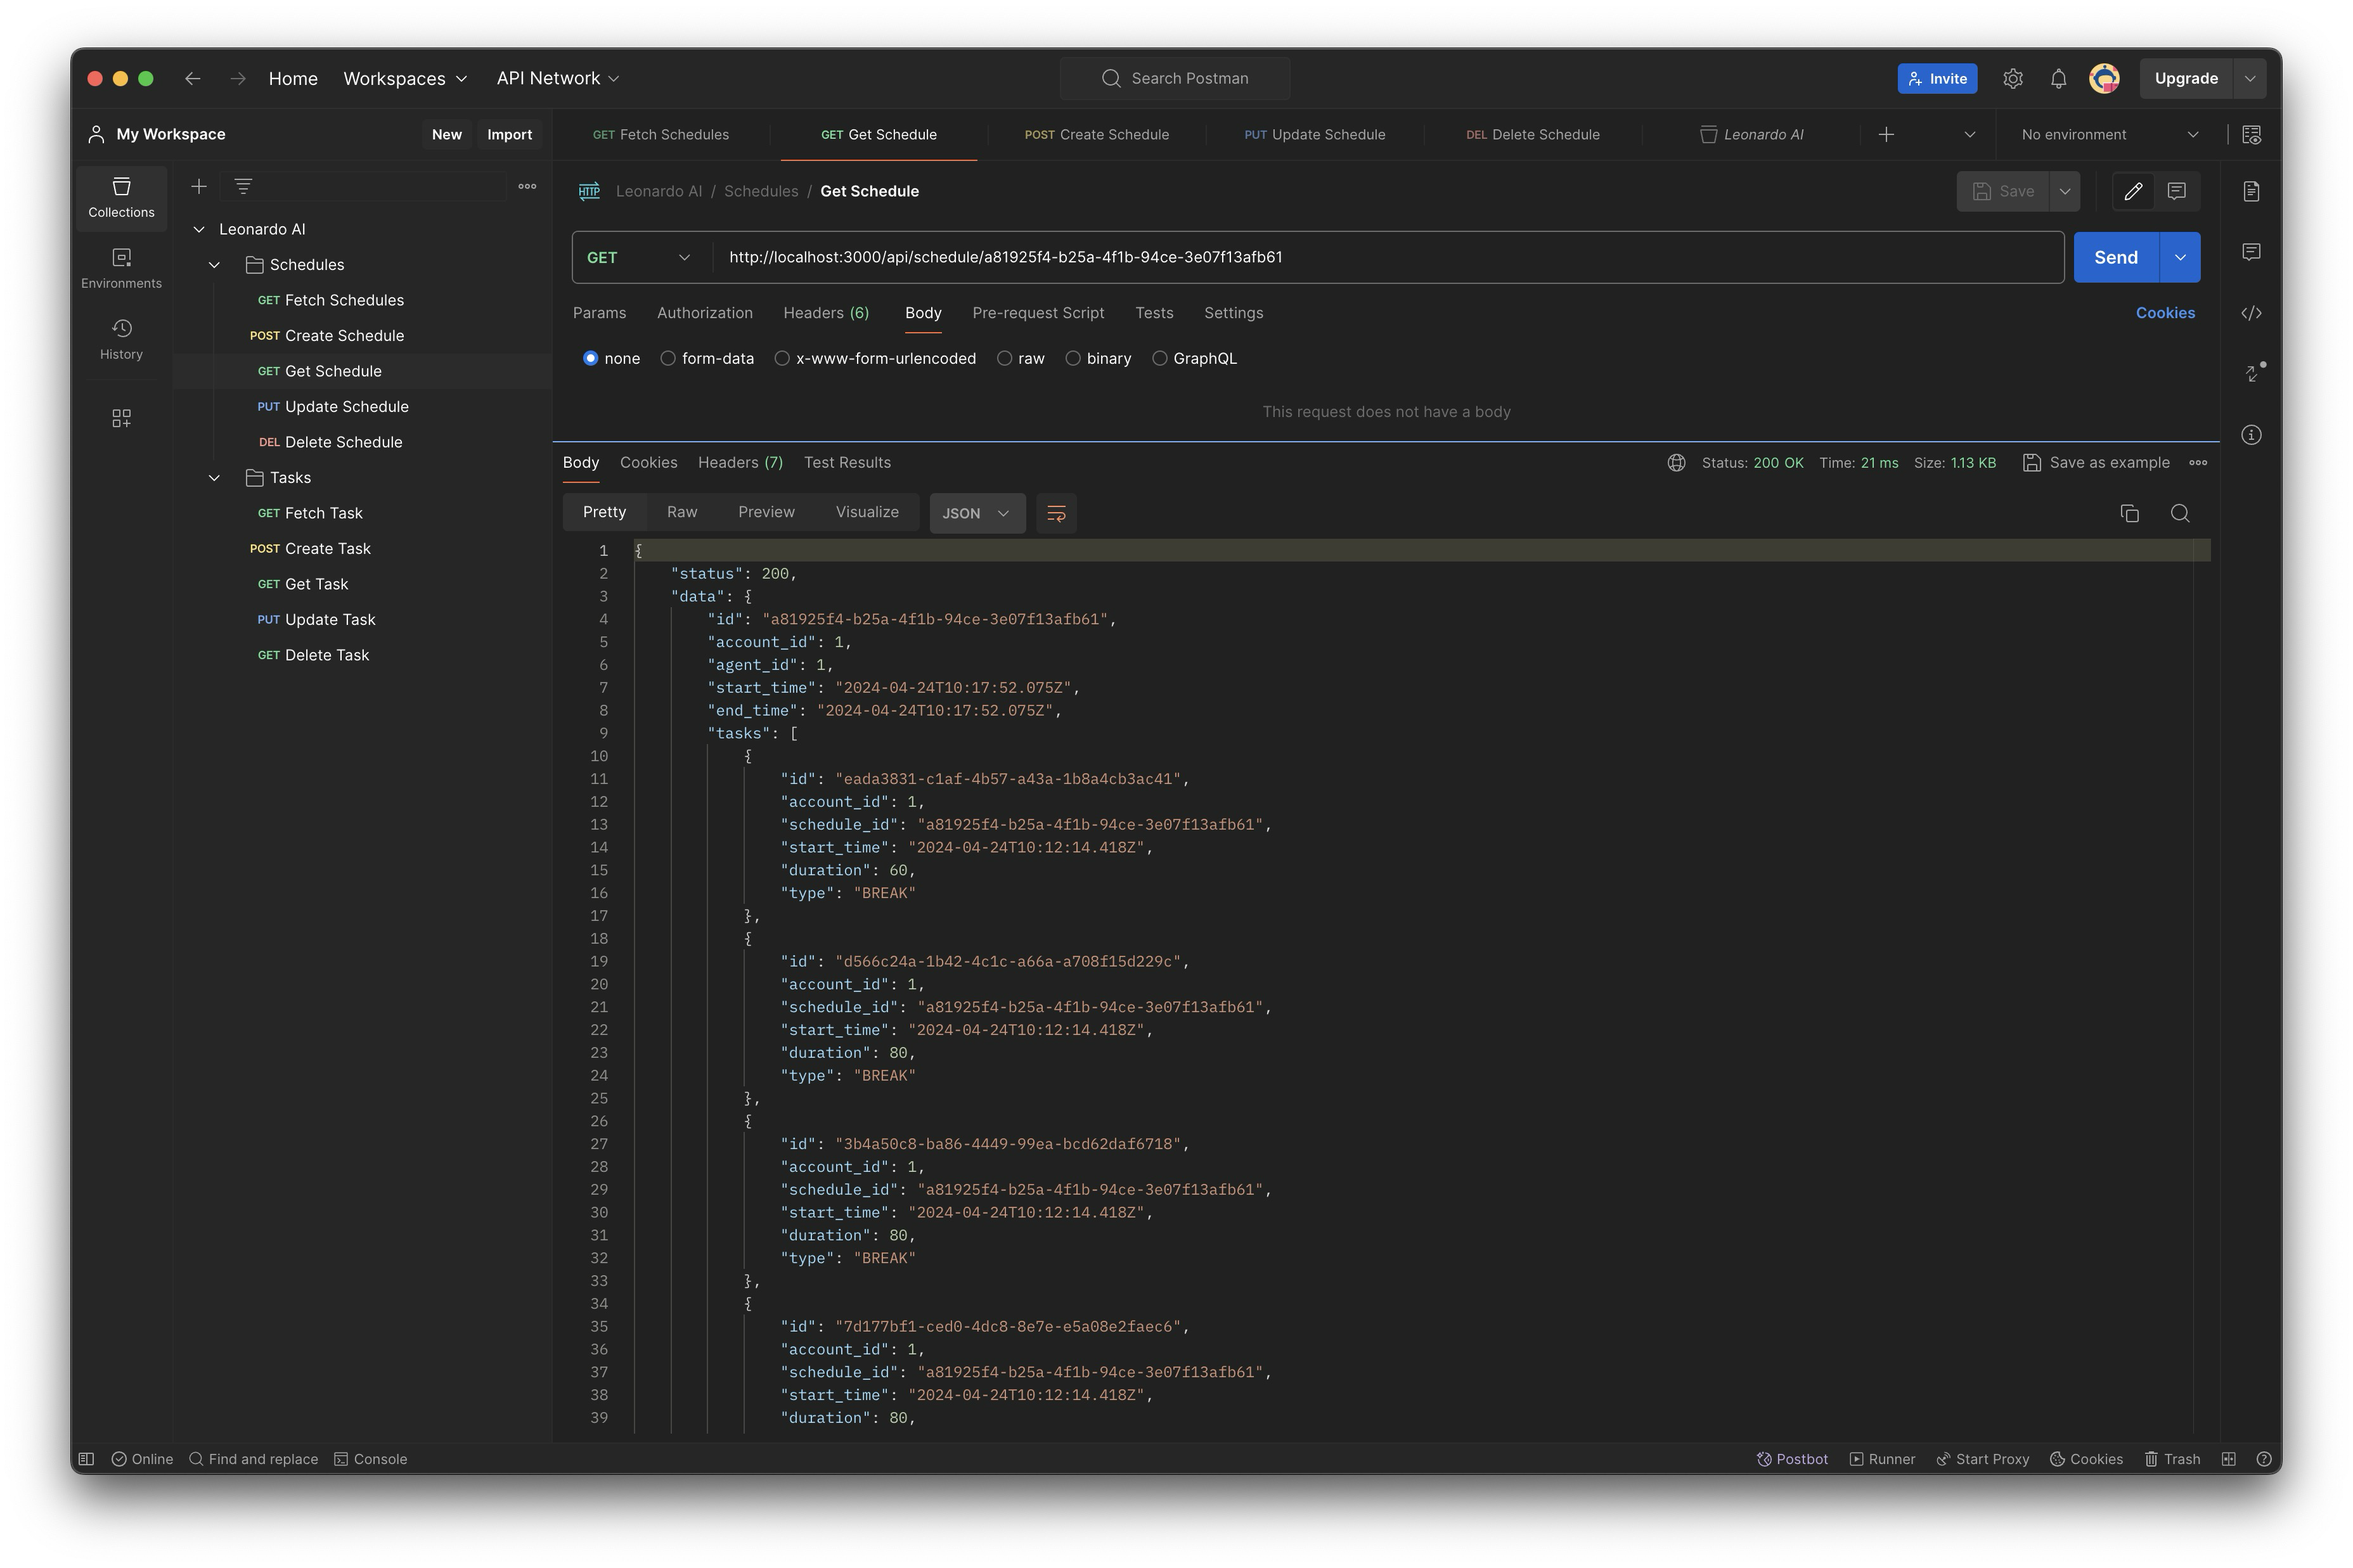
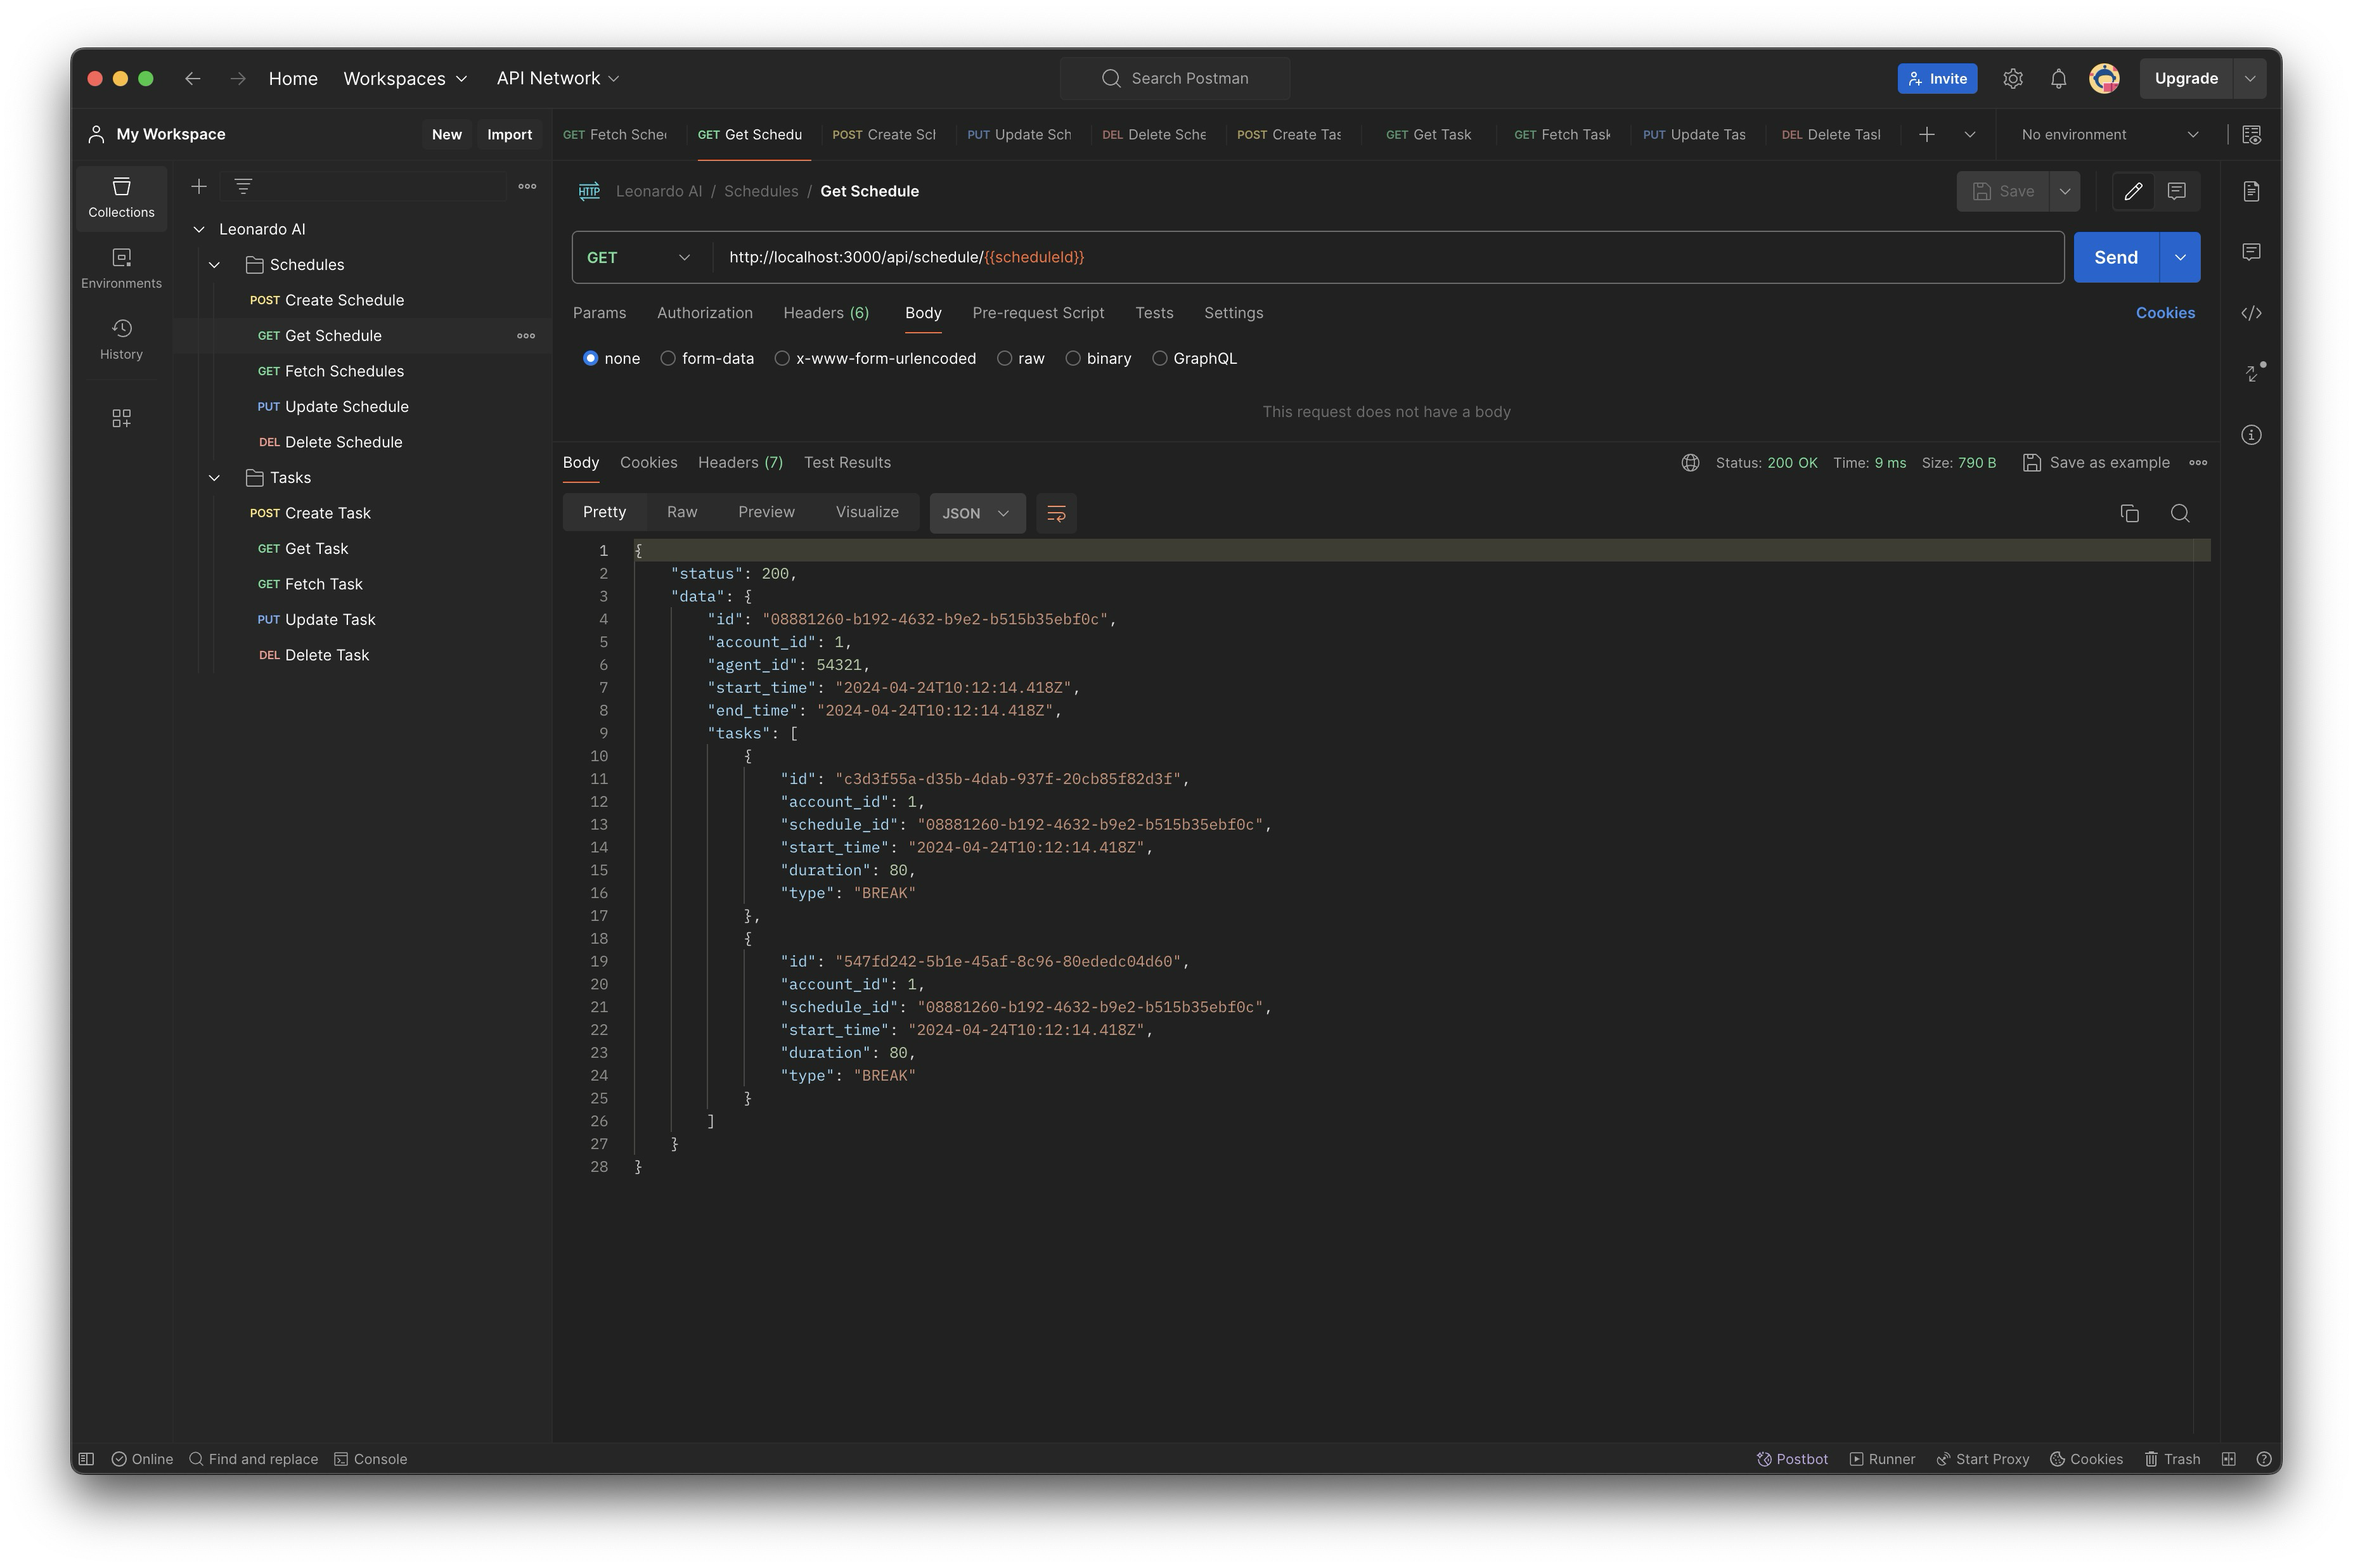
docs: update testing instructions

diff --git a/README.md b/README.md
@@ -76,6 +76,8 @@ npm test
 
 I have also provided a postman collection that can be easily imported to manually test the API. This can be found at `postman/LeonardoAI.postman_collection.json`
 
+The postman collection uses dynamic global variables so you don't need to worry about handling IDs. If you first create a schedule or task, you will then be able to make further GET, PUT and DELETE requests without needing to manually alter the request body.
+
 ![swagger](./assets/postman.png)
 
 ---
